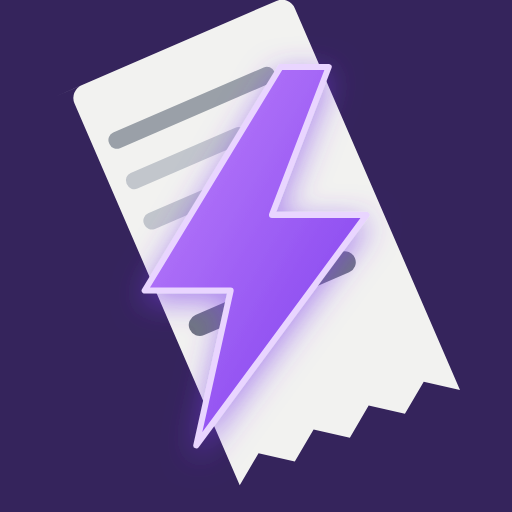
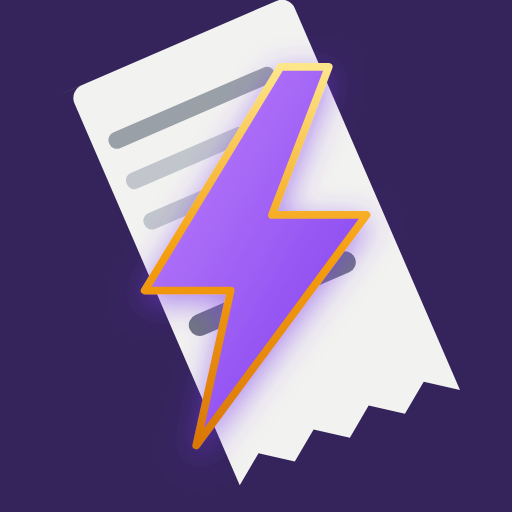
アイコンの稲妻の縁どりを淡紫から金色グラデーションに変更
Claude-Session: https://claude.ai/code/session_01M7TmCoUV6As5ur3WRm9Z6P

diff --git a/docs/index.html b/docs/index.html
@@ -592,7 +592,7 @@ const DRAFT_IMAGE_ID = "__draft__";
 const CROP_DRAFT_IMAGE_ID = "__crop_draft__"; // トリミング前の選択写真（リロード復元用）
 const DEFAULT_MODEL = "gpt-5.4";
 // UIに関わる変更をpushするたびに更新する（設定タブに表示。キャッシュで旧版が出ていないかの確認用）
-const APP_VERSION = "2026-07-08.25 アイコンの傾き-23.4°";
+const APP_VERSION = "2026-07-08.26 稲妻の縁どりを金色に";
 
 // OCRプロンプト: ExpenseVBA(modReceiptOCR.bas)と同一文言。抽出品質を揃えるため変更時は両方を同期すること
 const PROMPT = [